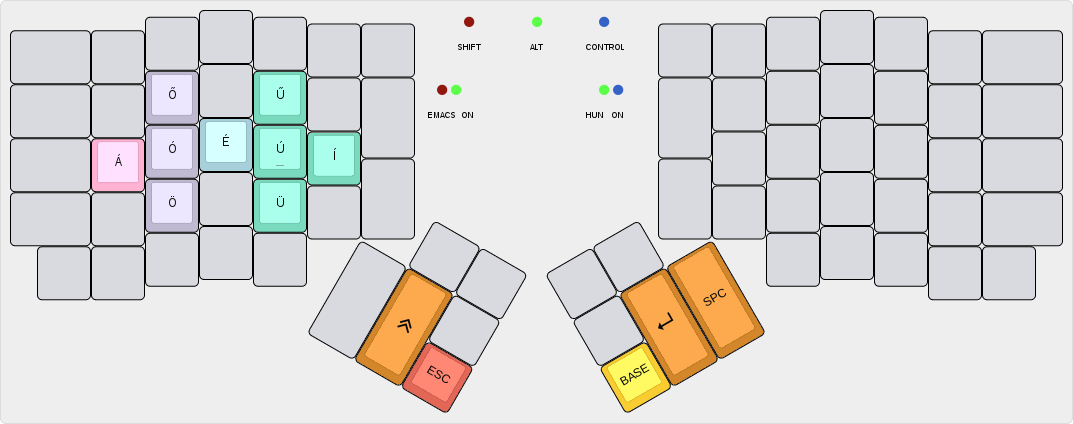
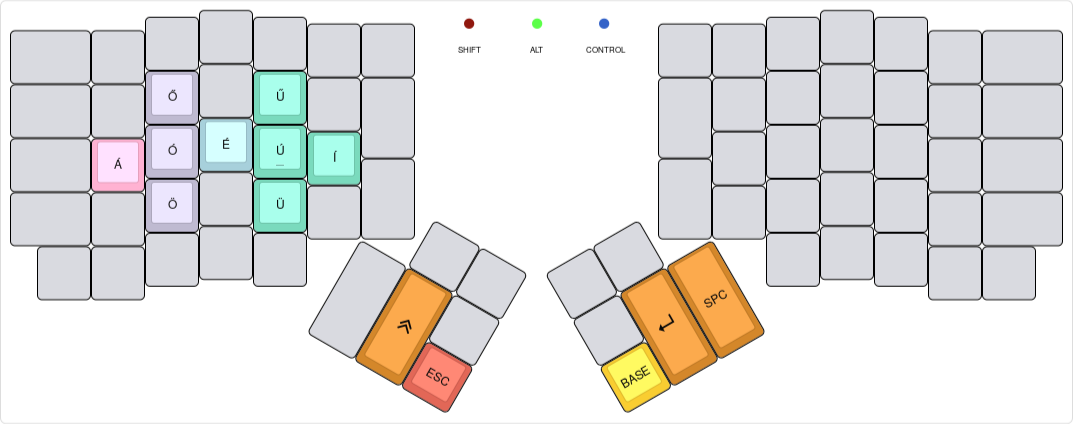
Update the images and the README
Bring all of these up to date.

diff --git a/readme.md b/readme.md
@@ -49,7 +49,7 @@ interesting parts are how certain keys behave:
   the one-shot modifiers are in-flight (as in, single-tapped, and not expired
   yet), it cancels all one-shot modifiers. It also cancels the **Hun** layer, if
   active. Otherwise it sends the usual keycode.
-* The **Emacs** and **Hun** layer keys are one-shot, the **1Hand**, **Arrow**
+* The **Media** and **Hun** layer keys are one-shot, the **1Hand**, **Arrow**
   keys are toggles.
 * Toggling the **Arrow** layer toggles between the cursor arrows and the paging
   keys on the bottom row.
@@ -62,9 +62,8 @@ interesting parts are how certain keys behave:
     - `LEAD y` types `\o/`.
     - `LEAD w m` maximises the currently focused window.
     - `LEAD e` makes the [experimental layer](#experimental-layer) the default.
-    - `LEAD v` prints the firmware version, the keyboard and the keymap, if
-      compiled with a QMK version that has these available.
-      
+    - `LEAD v` prints the firmware version, the keyboard and the keymap.
+
 ## Experimental layer
 
 [![Experimental layer](images/experimental-layer.png)](http://www.keyboard-layout-editor.com/#/gists/6ff50bf71248e05aab5b3fec4fae3d08)
